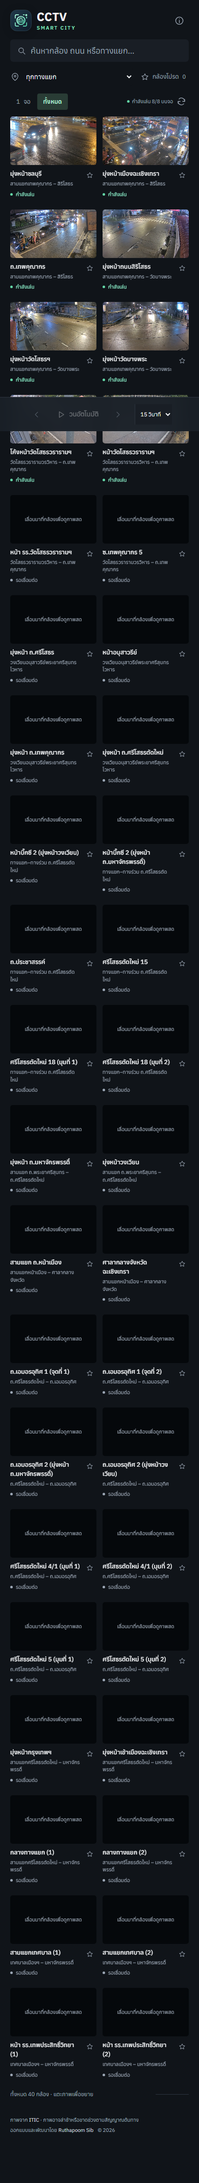
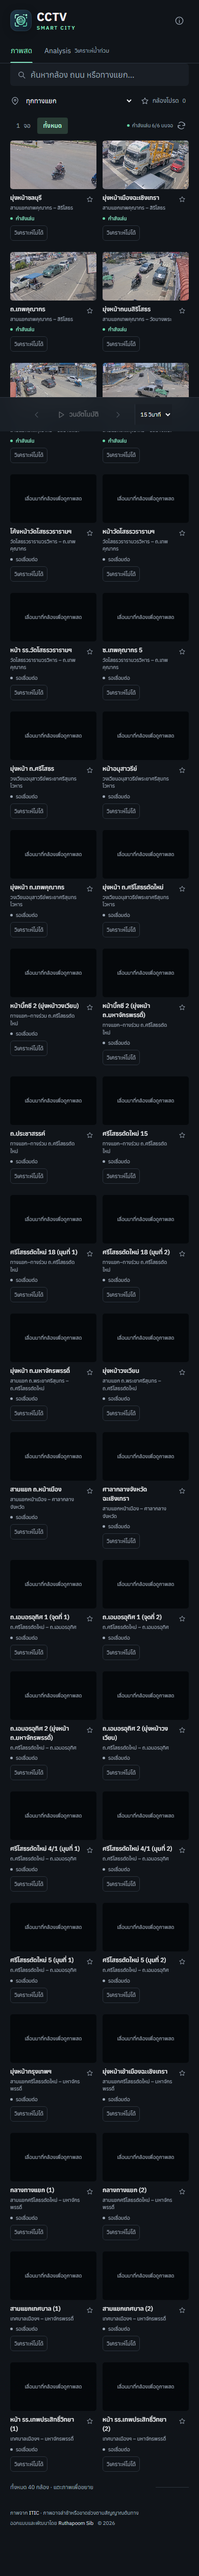
fix: enforce analysis deadlines freshness retention and evidence isolation

Changed region(s): [[0.0308, 0.0, 0.9538, 0.996]]

diff --git a/scripts/analyst.js b/scripts/analyst.js
@@ -2,6 +2,7 @@ globalThis.CctvAnalyst=(()=>{
   const $=id=>document.getElementById(id), core=CctvFloodCore, SVG='http://www.w3.org/2000/svg';
   const ranges={'1h':[3600,60],'24h':[86400,300],'7d':[604800,1800],'30d':[2592000,3600]};
   let client, route, controller, generation=0, latest=[], eventCursor=null, eventRange;
+  let evidenceController, evidenceGeneration=0;
   function node(name,attrs={},text) {const el=document.createElementNS(SVG,name);Object.entries(attrs).forEach(([k,v])=>el.setAttribute(k,v));if(text!==undefined)el.textContent=text;return el;}
   function cell(row,value,tag='td') {const el=document.createElement(tag);el.textContent=value;row.append(el);return el;}
   function chart(root,buckets,series,max,yLabel) {
@@ -39,10 +40,11 @@ globalThis.CctvAnalyst=(()=>{
     $('analysis-empty').hidden=buckets.some(b=>b.valid_count>0)||count>0;
   }
   async function evidence(ident) {
+    evidenceController?.abort();evidenceController=new AbortController();const current=++evidenceGeneration;
     const dialog=$('event-evidence');$('event-evidence-message').textContent='กำลังอ่านหลักฐาน…';$('event-evidence-image').hidden=true;dialog.showModal();
-    try {const response=await client.request(`/api/flood/evidence/${encodeURIComponent(ident)}?kind=overlay`);const url=URL.createObjectURL(await response.blob());
-      if(!dialog.open){URL.revokeObjectURL(url);return;}const image=$('event-evidence-image');if(image.dataset.objectUrl)URL.revokeObjectURL(image.dataset.objectUrl);image.dataset.objectUrl=url;image.src=url;image.hidden=false;$('event-evidence-message').textContent='หลักฐานตอนเปลี่ยนสถานะ';
-    }catch(error){$('event-evidence-message').textContent=error.message.includes('410')?'ภาพหลักฐานหมดอายุแล้ว':'อ่านภาพหลักฐานไม่ได้';}
+    try {const response=await client.request(`/api/flood/evidence/${encodeURIComponent(ident)}?kind=overlay`,{signal:evidenceController.signal});const url=URL.createObjectURL(await response.blob());
+      if(!dialog.open||current!==evidenceGeneration){URL.revokeObjectURL(url);return;}const image=$('event-evidence-image');if(image.dataset.objectUrl)URL.revokeObjectURL(image.dataset.objectUrl);image.dataset.objectUrl=url;image.src=url;image.hidden=false;$('event-evidence-message').textContent='หลักฐานตอนเปลี่ยนสถานะ';
+    }catch(error){if(dialog.open&&current===evidenceGeneration)$('event-evidence-message').textContent=error.message.includes('410')?'ภาพหลักฐานหมดอายุแล้ว':'อ่านภาพหลักฐานไม่ได้';}
   }
   function renderEvents(data,append=false) {
     if(!append)$('analysis-events').replaceChildren();
@@ -76,7 +78,7 @@ globalThis.CctvAnalyst=(()=>{
     $('events-more').onclick=async()=>{const current=generation;const query=new URLSearchParams(eventRange);query.set('cursor',eventCursor);$('events-more').disabled=true;
       try{const result=await client.request('/api/flood/events?'+query,{signal:controller.signal}).then(r=>r.json());if(current===generation)renderEvents(result,true);}catch(error){if(current===generation){$('analysis-error').hidden=false;$('analysis-error').textContent='อ่านเหตุการณ์เพิ่มเติมไม่ได้';}}finally{$('events-more').disabled=false;}};
     $('analysis-config').onclick=()=>{if(route.cameraId)CctvRoiEditor.open(route.cameraId);};
-    $('close-event-evidence').onclick=()=>$('event-evidence').close();$('event-evidence').addEventListener('close',()=>{const image=$('event-evidence-image');if(image.dataset.objectUrl)URL.revokeObjectURL(image.dataset.objectUrl);delete image.dataset.objectUrl;image.removeAttribute('src');});
+    $('close-event-evidence').onclick=()=>{evidenceGeneration++;evidenceController?.abort();$('event-evidence').close();};$('event-evidence').addEventListener('close',()=>{if($('event-evidence').open)return;evidenceGeneration++;evidenceController?.abort();const image=$('event-evidence-image');if(image.dataset.objectUrl)URL.revokeObjectURL(image.dataset.objectUrl);delete image.dataset.objectUrl;image.removeAttribute('src');});
     document.addEventListener('cctv:view-changed',event=>{controller?.abort();generation++;route=event.detail;if(route.view!=='analyst')return;
       $('analysis-camera').value=route.cameraId||'';$('analysis-group').value=route.groupId??'';$('analysis-range').value=route.range;
       $('analysis-config').disabled=!route.cameraId;load();});

diff --git a/scripts/flood-client.js b/scripts/flood-client.js
@@ -1,19 +1,28 @@
 (function(root,factory) {
   const api=factory(); if(typeof module==='object'&&module.exports) module.exports=api; else root.CctvFloodClient=api;
 })(globalThis,()=>{
-  function create({baseUrl,fetchImpl=globalThis.fetch.bind(globalThis),pollMs=15000}) {
+  function create({baseUrl,fetchImpl=globalThis.fetch.bind(globalThis),pollMs=15000,timeoutMs=25000}) {
     let running=false, timer=null, controller=null, generation=0, update;
     async function request(path,{signal,method='GET',body,token}={}) {
       if(!baseUrl) throw new Error('api_not_configured');
-      const abort=new AbortController(), deadline=setTimeout(()=>abort.abort(),25000);
-      const cancelled=()=>abort.abort(); signal?.addEventListener('abort',cancelled,{once:true});
-      if(signal?.aborted) abort.abort();
+      const abort=new AbortController();let deadline,cancelled;
+      const cancellation=new Promise((_,reject)=>{
+        cancelled=()=>{abort.abort();reject(new Error('request_cancelled'));};
+        signal?.addEventListener('abort',cancelled,{once:true});
+        deadline=setTimeout(()=>{abort.abort();reject(new Error('request_timeout'));},timeoutMs);
+        if(signal?.aborted)cancelled();
+      });
       try {
-        const response=await fetchImpl(baseUrl.replace(/\/$/,'')+path,{method,signal:abort.signal,
-          headers:{...(body?{'Content-Type':'application/json'}:{}),...(token?{Authorization:`Bearer ${token}`}:{})},
-          ...(body?{body:JSON.stringify(body)}:{}),cache:'no-store'});
-        if(!response.ok) throw new Error(`API ${response.status}`);
-        return response;
+        const operation=(async()=>{
+          const response=await fetchImpl(baseUrl.replace(/\/$/,'')+path,{method,signal:abort.signal,
+            headers:{...(body?{'Content-Type':'application/json'}:{}),...(token?{Authorization:`Bearer ${token}`}:{})},
+            ...(body?{body:JSON.stringify(body)}:{}),cache:'no-store'});
+          if(!response.ok)throw new Error(`API ${response.status}`);
+          const isJson=(response.headers?.get('content-type')||'application/json').includes('json');
+          const data=await (isJson?response.json():response.blob());
+          return {status:response.status,headers:response.headers,json:async()=>data,blob:async()=>data};
+        })();
+        return await Promise.race([operation,cancellation]);
       } finally {clearTimeout(deadline); signal?.removeEventListener('abort',cancelled);}
     }
     async function refresh() {

diff --git a/backend/flood/worker.py b/backend/flood/worker.py
@@ -47,21 +47,32 @@ class InferenceSupervisor:
         self.path, self.device, self.timeout = model_path, device, timeout
         self.process = None; self.connection = None
     def predict(self, capture, pixel_score):
+        started = time.monotonic()
         if self.process is None:
             context = mp.get_context('spawn'); parent, child = context.Pipe()
             self.connection = parent
             self.process = context.Process(target=_model_child, args=(child, self.path, self.device), daemon=True)
             self.process.start(); child.close()
-        try:
-            self.connection.send((capture.image, pixel_score))
-            if not self.connection.poll(self.timeout): raise ModelError('inference_timeout')
-            status, value = self.connection.recv()
-            if status != 'ok': raise ModelError(value)
-            return value
-        except (EOFError, BrokenPipeError, OSError):
-            self.close(); raise ModelError('model_unavailable')
-        except ModelError:
-            self.close(); raise
+        # Pipe send and complete recv can both block, even after poll says readable.
+        # Keep transport off the supervisor thread so its deadline can kill/reap the child.
+        connection = self.connection; done = threading.Event(); outcome = {}
+        def transact():
+            try:
+                connection.send((capture.image, pixel_score))
+                outcome['response'] = connection.recv()
+            except (EOFError, BrokenPipeError, OSError): outcome['error'] = 'model_unavailable'
+            finally: done.set()
+        transport = threading.Thread(target=transact, daemon=True); transport.start()
+        if not done.wait(max(0, self.timeout-(time.monotonic()-started))):
+            self.close(); transport.join(timeout=5); raise ModelError('inference_timeout')
+        transport.join()
+        if 'error' in outcome:
+            self.close(); raise ModelError(outcome['error'])
+        status, value = outcome['response']
+        if status != 'ok':
+            if value != 'image_quality': self.close()
+            raise ModelError(value)
+        return value
     def close(self):
         if self.process:
             if self.process.is_alive(): self.process.terminate()
@@ -98,6 +109,8 @@ def run_worker(settings, stop_event, once=False):
     executor = ThreadPoolExecutor(max_workers=2)
     try:
         while not stop_event.is_set():
+            if time.monotonic()-pruned > 3600:
+                store.prune(time.time(), settings.observation_days); evidence.prune(time.time(), settings.evidence_days); pruned=time.monotonic()
             for ident in scheduler.due(time.monotonic()):
                 config = store.get_config(ident)
                 if not config.enabled or not config.roi or (once and ident in finished):
@@ -132,8 +145,6 @@ def run_worker(settings, stop_event, once=False):
             if len(finished)==len(catalog):
                 store.set_health('last_cycle_seconds', time.monotonic()-cycle_started)
                 if not once: finished.clear(); cycle_started=time.monotonic()
-            if time.monotonic()-pruned > 3600:
-                store.prune(time.time(), settings.observation_days); evidence.prune(time.time(), settings.evidence_days); pruned=time.monotonic()
     finally:
         supervisor.close(); executor.shutdown(wait=True, cancel_futures=True)
         store.set_health('worker', {'heartbeat':time.time(), 'state':'stopped', 'queue_depth':0}); store.close()

diff --git a/backend/tests/test_worker.py b/backend/tests/test_worker.py
@@ -9,6 +9,28 @@ from backend.flood.contracts import Sequence
 def hang(connection):
     connection.recv(); time.sleep(30)
 
+def hang_before_read(connection):
+    time.sleep(30)
+
+def test_inference_deadline_includes_model_loading_and_large_input_send(tmp_path):
+    from backend.flood.contracts import Capture
+    from PIL import Image
+    supervisor=InferenceSupervisor(tmp_path,timeout=.1)
+    ctx=mp.get_context('spawn');parent,child=ctx.Pipe()
+    process=ctx.Process(target=hang_before_read,args=(child,));process.start();child.close()
+    supervisor.connection=parent;supervisor.process=process
+    errors=[]
+    def predict():
+        try:supervisor.predict(Capture('03',Image.new('RGB',(1280,720)),100),.5)
+        except Exception as error:errors.append(str(error))
+    thread=threading.Thread(target=predict,daemon=True);thread.start()
+    try:
+        thread.join(1)
+        assert not thread.is_alive(), 'Timeout must cover blocked input send during model initialization'
+        assert errors==['inference_timeout']
+    finally:
+        supervisor.close();thread.join(5)
+
 def test_hung_inference_is_terminated_and_reaped(tmp_path):
     from backend.flood.contracts import Capture
     from backend.flood.model import ModelError
@@ -37,6 +59,21 @@ def test_capture_failure_is_unknown_and_resets_sequence(monkeypatch, catalog, co
     reading, sequence, frame, prediction = analyze(catalog[0], config_factory(revision=1), Sequence(status='active'), None, 'ffmpeg')
     assert reading.status == 'unknown' and reading.reason == 'capture_timeout'
     assert reading.water_coverage_pct is None and sequence.high_count == 0
+
+def test_retention_runs_when_all_cameras_disabled(tmp_path,reading_factory):
+    from backend.flood.worker import run_worker
+    from backend.flood.settings import Settings,load_catalog
+    from backend.flood.store import Store
+    settings=Settings(runtime=tmp_path)
+    store=Store(tmp_path/'flood.sqlite3',load_catalog(settings.catalog_path))
+    at=time.time()-31*86400
+    # Default config revision is zero; seed an expired observation directly through its contract.
+    from dataclasses import replace
+    store.record(replace(reading_factory(captured_at=at+2,processed_at=at+3),config_revision=0),0)
+    store.close();run_worker(settings,threading.Event(),once=True)
+    store=Store(tmp_path/'flood.sqlite3',load_catalog(settings.catalog_path))
+    assert store.history(['03'],at-1,at+10).items==[]
+    store.close()
 
 def test_supervisor_closes_and_missing_model_is_bounded(tmp_path):
     supervisor = InferenceSupervisor(tmp_path/'missing', 'cpu', timeout=10)

diff --git a/backend/flood/store.py b/backend/flood/store.py
@@ -30,6 +30,7 @@ class Store:
             UNIQUE(camera_id,captured_at,config_revision,model_revision));
           CREATE INDEX IF NOT EXISTS obs_camera_time ON observations(camera_id,captured_at DESC,id DESC);
           CREATE INDEX IF NOT EXISTS obs_time ON observations(captured_at);
+          CREATE INDEX IF NOT EXISTS obs_evidence ON observations(json_extract(data,'$.evidence_id'));
           CREATE TABLE IF NOT EXISTS events(id TEXT PRIMARY KEY,camera_id TEXT NOT NULL,started_at REAL NOT NULL,
             ended_at REAL,end_reason TEXT,peak_pct REAL NOT NULL,start_evidence_id TEXT,end_evidence_id TEXT);
           CREATE INDEX IF NOT EXISTS events_camera_time ON events(camera_id,started_at);
@@ -134,6 +135,7 @@ class Store:
         return Page([Reading(**json.loads(row['data'])) for row in shown], next_cursor)
 
     def events(self, ids, start, end, limit=100, cursor=None):
+        self.expire_events(time.time())
         ids, marks = self._ids(ids)
         if not ids: return Page([])
         values = [*ids, end, start]
@@ -168,9 +170,17 @@ class Store:
 
     def has_evidence(self, ident):
         with self.lock:
-            return any(json.loads(row['data']).get('evidence_id') == ident for row in self.db.execute('SELECT data FROM observations'))
+            return self.db.execute("SELECT 1 FROM observations WHERE json_extract(data,'$.evidence_id')=? LIMIT 1",(ident,)).fetchone() is not None
+
+    def expire_events(self, now):
+        with self.lock, self.db:
+            self.db.execute('''UPDATE events SET ended_at=(
+                SELECT MAX(captured_at) FROM observations WHERE observations.camera_id=events.camera_id),
+                end_reason='data_gap' WHERE ended_at IS NULL AND (
+                SELECT MAX(captured_at) FROM observations WHERE observations.camera_id=events.camera_id)<?''',(now-180,))
 
     def prune(self, now, observation_days=30):
+        self.expire_events(now)
         with self.lock, self.db:
             count = self.db.execute('DELETE FROM observations WHERE captured_at<?', (now-observation_days*86400,)).rowcount
             self.db.execute('DELETE FROM events WHERE ended_at IS NOT NULL AND ended_at<?', (now-observation_days*86400,))

diff --git a/backend/tests/test_store.py b/backend/tests/test_store.py
@@ -48,3 +48,27 @@ def test_retention_freshness_and_concurrent_configuration(tmp_path, catalog, rea
     assert a.prune(now=1000+30*86400+1) == 1
     assert a.history(['03'], 0, 10000, 100, None).items == []
     a.close(); b.close()
+
+def test_worker_loss_closes_open_event_at_last_confirmed_time(tmp_path,catalog,reading_factory,config_factory,monkeypatch):
+    s=make_store(tmp_path,catalog);s.save_config(config_factory(),0)
+    s.record(reading_factory(status='active',water_coverage_pct=22),1)
+    monkeypatch.setattr('backend.flood.store.time.time',lambda:2000)
+    assert s.events(['03'],1500,2100).items==[], 'Missing worker cannot extend event into later unknown time'
+    event=s.events(['03'],900,1100).items[0]
+    assert event.ended_at==1000 and event.end_reason=='data_gap'
+    s.close()
+
+def test_evidence_lookup_does_not_scan_retained_history(tmp_path,catalog,reading_factory):
+    import json
+    from dataclasses import asdict
+    s=make_store(tmp_path,catalog)
+    data=json.dumps(asdict(reading_factory()))
+    s.db.executemany('INSERT INTO observations(camera_id,captured_at,config_revision,model_revision,data) VALUES(?,?,?,?,?)',
+        [('03',i,1,'trained',data) for i in range(5000)])
+    s.db.commit();steps=[0]
+    def budget():
+        steps[0]+=1
+        return int(steps[0]>30)
+    s.db.set_progress_handler(budget,100)
+    try: assert s.has_evidence('f'*32) is False
+    finally:s.db.set_progress_handler(None,0);s.close()

diff --git a/backend/flood/api.py b/backend/flood/api.py
@@ -67,8 +67,11 @@ def create_app(settings):
     def health():
         now=time.time(); worker=store.get_health('worker') or {}; age=now-worker.get('heartbeat',0)
         analysis=store.get_health('analysis') or {}
-        return {'api':'available', 'worker':{**worker,'available':worker.get('state')=='running' and 0<=age<=settings.fresh_age},
-            'model':{'available':(settings.model_path/'manifest.json').is_file(), **analysis},
+        worker_available=worker.get('state')=='running' and 0<=age<=settings.fresh_age
+        model_age=now-analysis.get('processed_at',0)
+        model_available=bool(worker_available and analysis.get('model_revision') and not analysis.get('reason') and 0<=model_age<=settings.fresh_age)
+        return {'api':'available', 'worker':{**worker,'available':worker_available},
+            'model':{**analysis,'files_installed':(settings.model_path/'manifest.json').is_file(),'available':model_available},
             'dependencies':{'ffmpeg':shutil.which(settings.ffmpeg) is not None},
             'fresh_age_seconds':settings.fresh_age, 'target_interval_seconds':settings.interval,
             'last_cycle_seconds':store.get_health('last_cycle_seconds')}

diff --git a/backend/tests/test_api.py b/backend/tests/test_api.py
@@ -32,3 +32,11 @@ def test_evidence_expired_vs_unknown_and_worker_unavailable(tmp_path, config_fac
         assert c.get('/api/flood/evidence/'+'a'*32).status_code == 410
         assert c.get('/api/flood/health').json()['worker']['available'] is False
         assert c.get('/api/flood/cameras').json()['cameras'][0]['reading']['status']=='clear'
+
+def test_manifest_alone_never_reports_broken_model_ready(tmp_path):
+    import json
+    model=tmp_path/'models';model.mkdir();(model/'manifest.json').write_text('{}')
+    app=create_app(Settings(runtime=tmp_path,model_path=model))
+    app.state.store.set_health('analysis',{'reason':'model_unavailable','model_id':None,'processed_at':time.time()})
+    with TestClient(app) as c:
+        assert c.get('/api/flood/health').json()['model']['available'] is False

diff --git a/docs/flood-operations.md b/docs/flood-operations.md
@@ -56,12 +56,14 @@ Both services mount `./runtime/flood:/app/runtime/flood`; API publishes only `12
 - `water_coverage_pct`: percent of ROI pixels whose highest scoring semantic class is water/river/sea/lake and whose grouped water probability reaches the pixel threshold (default 0.50).
 - `model_score`: mean water probability over ROI, uncalibrated; it is not flood precision or confidence in a safety decision.
 - Defaults: suspect at 5%, active at 15% for three consecutive accepted results; active clears after three results below 5%. Errors, gaps over 180 seconds, config/model changes and worker restart reset confirmation.
-- Capture is limited to two concurrent jobs, one inference process, at most two pending captures. Each capture has a 20-second deadline; inference has 120 seconds. A stalled inference child is terminated and reaped. Worker shutdown waits for bounded captures. API remains usable if the worker/model is absent.
+- Capture is limited to two concurrent jobs, one inference process, at most two pending captures. Each capture has a 20-second deadline; inference has 120 seconds including model initialization, image transmission and complete result receipt. A stalled inference child is terminated and reaped, unblocking its transport. Worker shutdown waits for bounded captures. API remains usable if the worker/model is absent.
 - A 60-second interval is a target, not a guarantee. Inspect actual cycle time in health and measure `--all-cameras` before deploying. CPU may need a larger interval or fewer configured cameras/GPU; results older than 180 seconds become unknown regardless of interval. Never enlarge freshness merely to hide delay.
 - `source_at` and HLS sequence remain null when FFmpeg cannot tie metadata to the exact decoded frame. Capture time is acquisition time, not proof of the camera's source clock. Identical scene pixels alone never establish a frozen stream.
-- Observations/events retain 30 days; event image/mask/overlay files retain 7 days. Setup snapshots retain only the latest per camera. Unknown and unconfigured metrics are null. A missing curve segment is not zero water.
+- Observations/events retain 30 days; event image/mask/overlay files retain 7 days. Maintenance also runs while no cameras are enabled. Setup snapshots retain only the latest per camera. Unknown and unconfigured metrics are null. A missing curve segment is not zero water. Events with no fresh follow-up close at the last observed time with `data_gap`; they do not remain ongoing indefinitely after worker loss.
 - Charts use the latest fresh reading at/before each bucket end for camera counts, with a 180-second warm-up preceding the range. Mean/max coverage use valid samples in the half-open bucket only. Aggregate coverage across camera views is unavailable. Times render in Asia/Bangkok.
 - All viewer mode scrolls readable tiles and connects at most nine visible streams. Analysis releases players and stops the tour, then restores the previous live position without restarting the tour.
+
+Health separates model `files_installed` from `available`: availability requires a fresh successful supervised analysis and a fresh running worker heartbeat. A manifest by itself never proves the model is usable. Browser deadlines/cancellation cover complete JSON/image bodies, and each event evidence dialog rejects responses from a previous selection.
 
 Stop/restart services with Ctrl+C or Compose stop/up. Keep only one worker per database. Configuration revision is checked during result insertion, so results for edited ROI are discarded. SQLite WAL protects independent reader/writer processes. Model files and manifest must travel together; changing model revision resets subsequent confirmations.
 

diff --git a/docs/reviews/2026-10-03-flood-validation.md b/docs/reviews/2026-10-03-flood-validation.md
@@ -10,8 +10,8 @@ Implementation adds the visible **Analysis** menu, per-camera water badges, pers
 
 | Check | Result |
 |---|---|
-| Python deterministic tests | 33 passed before final review |
-| JS unit/packaging/syntax | 22 passed; all 11 app scripts checked |
+| Python deterministic tests | 38 passed after final review fixes |
+| JS unit/packaging/syntax | 24 passed after final review fixes; all 11 app scripts checked |
 | Existing viewer Playwright regressions | 93 passed, no uncaught errors |
 | New browser fixtures | Navigation/player release, All stream cap, chart/table agreement, null gaps, deep-link/back/reload, evidence expiry, letterboxing/resize ROI geometry, conflict draft preservation, token clearing/storage and 320/390/768/1440 layout passed |
 | Real local API/browser | API returned all 40 cameras; Analysis read actual API, model and worker unavailable were explicit |
@@ -41,3 +41,19 @@ The provided protected Vercel preview redirects to Vercel login in available HTT
 5. Build/run containers on the intended host; current Docker validation is configuration-only.
 
 This report intentionally separates deterministic fixtures, real capture, real API/error persistence and still-unverified model inference.
+
+## Independent review and fixes
+
+One independent reviewer inspected `4b38ca8..1628bf4`. No Critical or Minor findings; seven Important findings were reproduced with failing regressions and corrected in one fix pass:
+
+1. The supervisor deadline now covers blocking send and complete receive during model initialization/inference. Timeout terminates/reaps the child and releases IPC.
+2. Browser timeout and caller cancellation remain active through full JSON/image body consumption.
+3. Stale open events close with `data_gap` at the last observed timestamp even without another worker result.
+4. Model health requires a fresh supervised success and worker heartbeat, separately reporting installed files.
+5. Event evidence has its own cancellation/generation guard; late errors/images cannot replace another event.
+6. Retention maintenance runs even when every camera is disabled/unconfigured.
+7. Evidence UUID lookup uses an indexed database expression, with a bounded-query regression over 5,000 retained rows.
+
+API was restarted after three real unknown observations; all three remained present with null metrics. Existing live-video check passed: four advancing desktop players and one advancing mobile player, no uncaught errors. Final UI fixtures include evidence-request races in addition to the original coverage.
+
+No reviewer was asked to claim unverified accuracy, weight compatibility/cadence, container runtime or deployed performance. Those external acceptance conditions remain as stated above.
